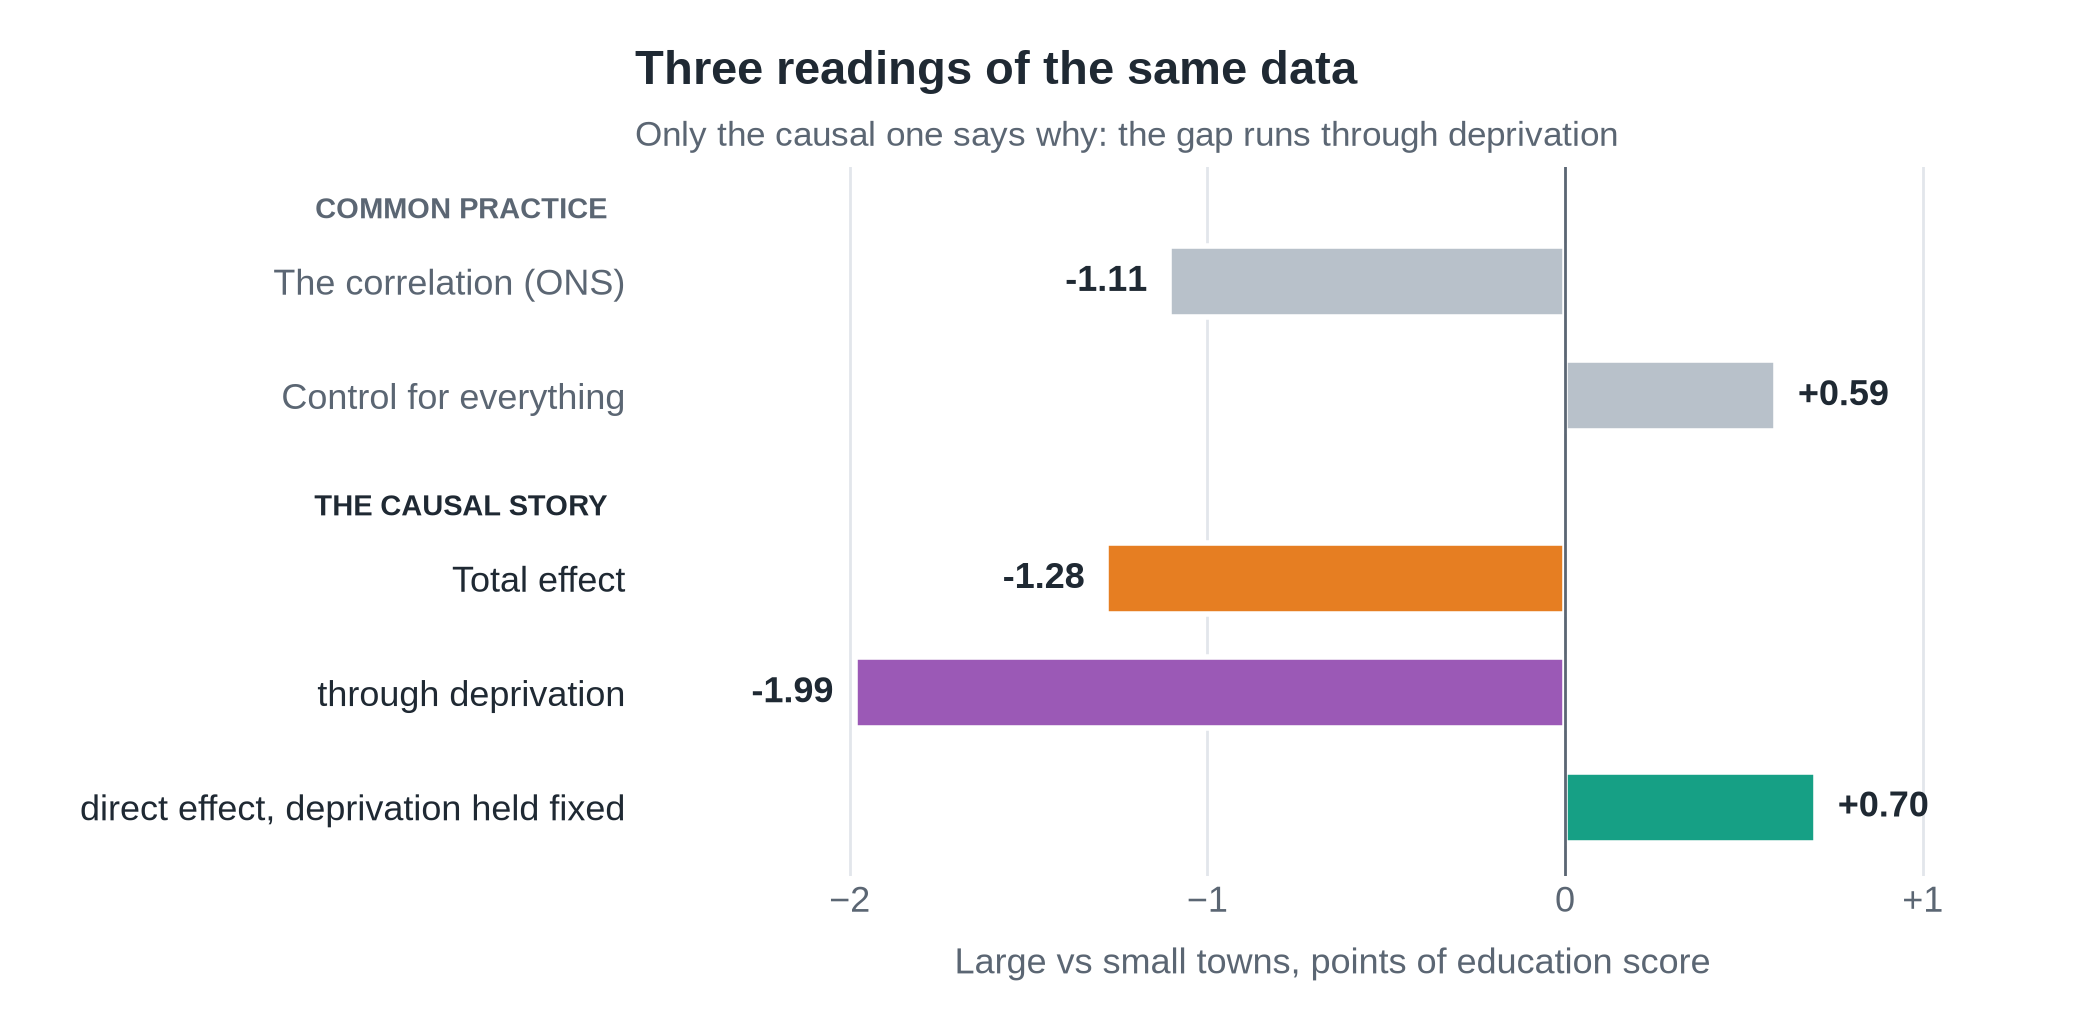
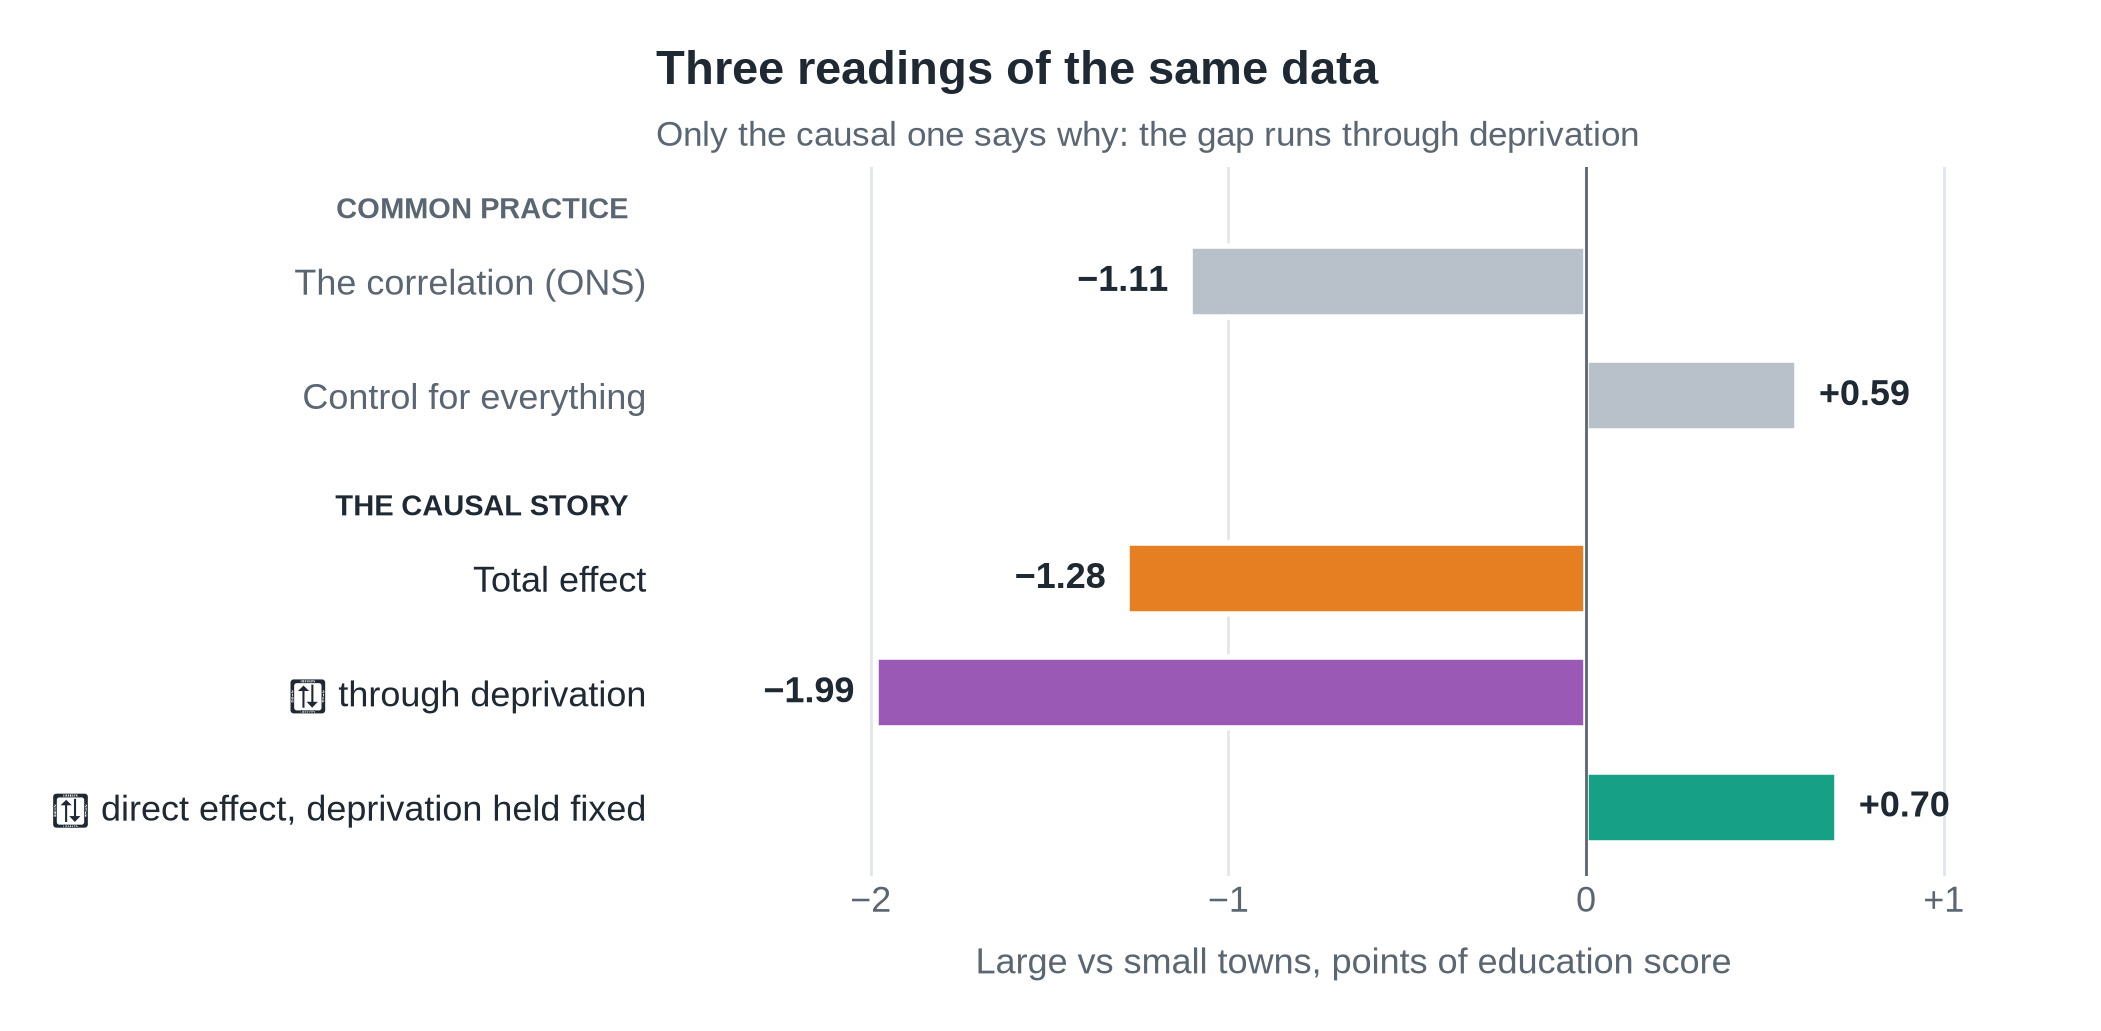
Use real minus signs and indent the effect breakdown in the essay charts

diff --git a/scripts/build_essay_figures.py b/scripts/build_essay_figures.py
@@ -63,6 +63,11 @@ def large_vs_small(df: pd.DataFrame, extra: str = "") -> float:
     return fit.params[term]
 
 
+def signed(v: float) -> str:
+    """+0.30 / −0.81, with a real minus sign."""
+    return f"{v:+.2f}".replace("-", "\u2212")
+
+
 def title(ax, text: str, sub: str) -> None:
     ax.set_title(text, loc="left", fontsize=17, fontweight="bold", color=INK, pad=30)
     ax.text(0, 1.02, sub, transform=ax.transAxes, fontsize=12.5, color=MUTED, va="bottom")
@@ -82,7 +87,7 @@ def attainment_by_size(df: pd.DataFrame) -> None:
     bars[0].set_color("#7f8c8d")
     ax.axhline(0, color=MUTED, linewidth=1)
     for bar, v in zip(bars, means.values):
-        ax.annotate(f"{v:+.2f}", (bar.get_x() + bar.get_width() / 2, v),
+        ax.annotate(signed(v), (bar.get_x() + bar.get_width() / 2, v),
                     xytext=(0, 6 if v >= 0 else -6), textcoords="offset points",
                     ha="center", va="bottom" if v >= 0 else "top", fontweight="bold", color=INK)
     ax.set_ylim(-1.15, 0.65)
@@ -137,14 +142,14 @@ def three_readings(df: pd.DataFrame) -> None:
         ("The correlation (ONS)", correlation, QUIET),
         ("Control for everything", everything, QUIET),
         ("Total effect", total, TOTAL),
-        ("   through deprivation", via, VIA),
-        ("   direct effect, deprivation held fixed", direct, DIRECT),
+        ("↳ through deprivation", via, VIA),
+        ("↳ direct effect, deprivation held fixed", direct, DIRECT),
     ]
     fig, ax = plt.subplots(figsize=(9, 4.6))
     y = [0, 1, 2.6, 3.6, 4.6]
     for yi, (label, v, color) in zip(y, rows):
         ax.barh(yi, v, color=color, height=0.62, edgecolor="white", linewidth=2)
-        ax.text(v + (0.06 if v >= 0 else -0.06), yi, f"{v:+.2f}", va="center",
+        ax.text(v + (0.06 if v >= 0 else -0.06), yi, signed(v), va="center",
                 ha="left" if v >= 0 else "right", fontweight="bold", color=INK)
     ax.set_yticks(y, [r[0] for r in rows])
     for tick, (_, _, color) in zip(ax.get_yticklabels(), rows):
